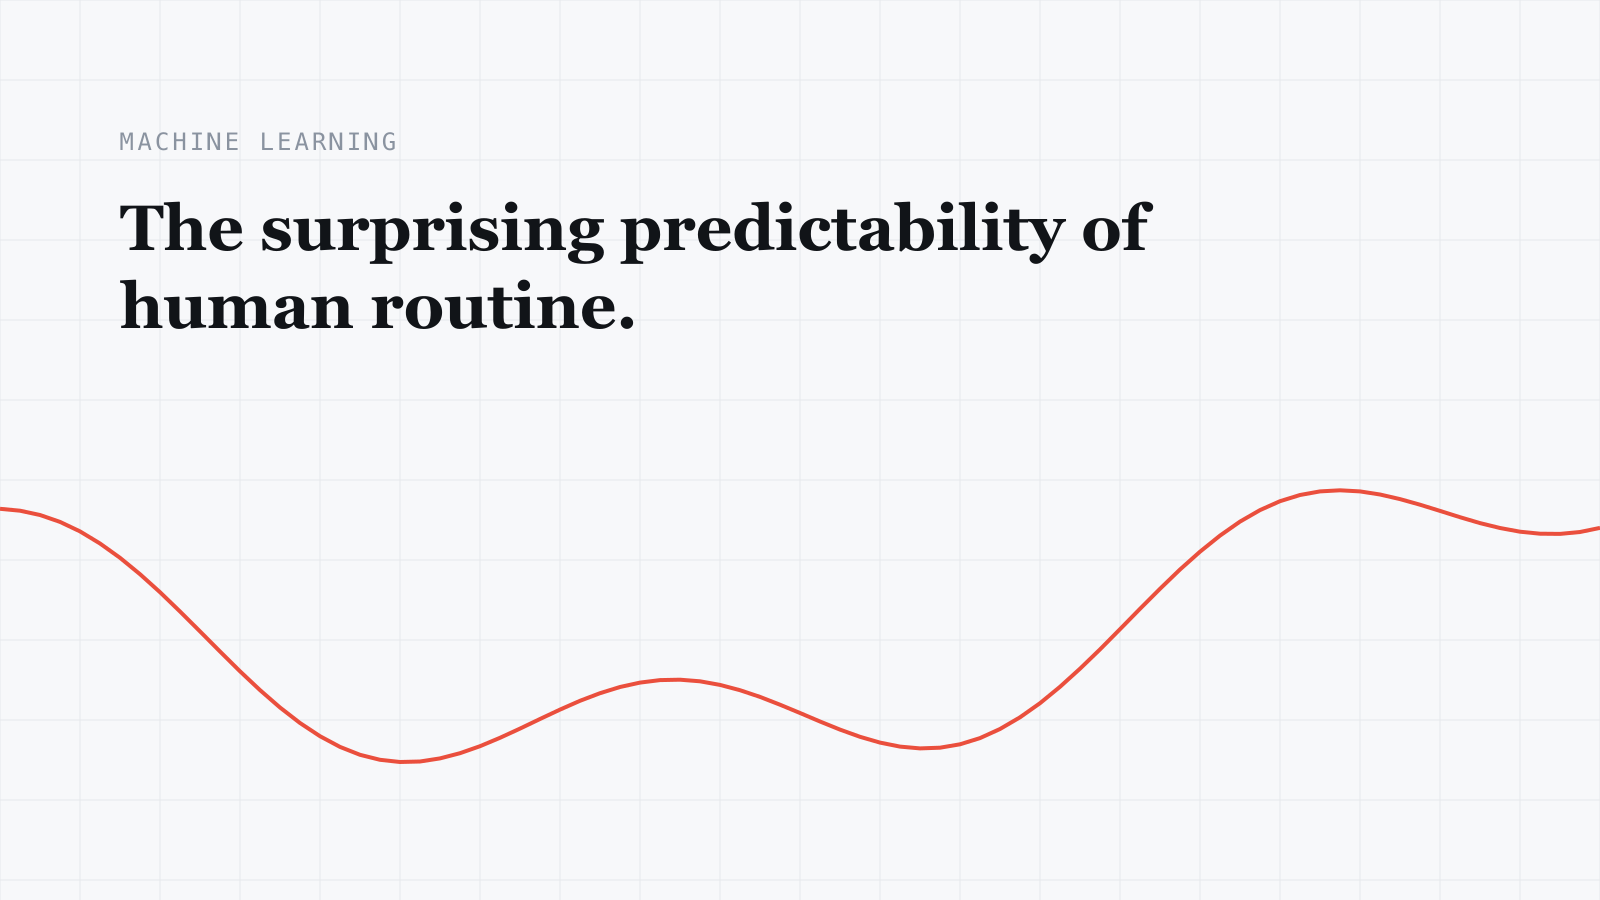
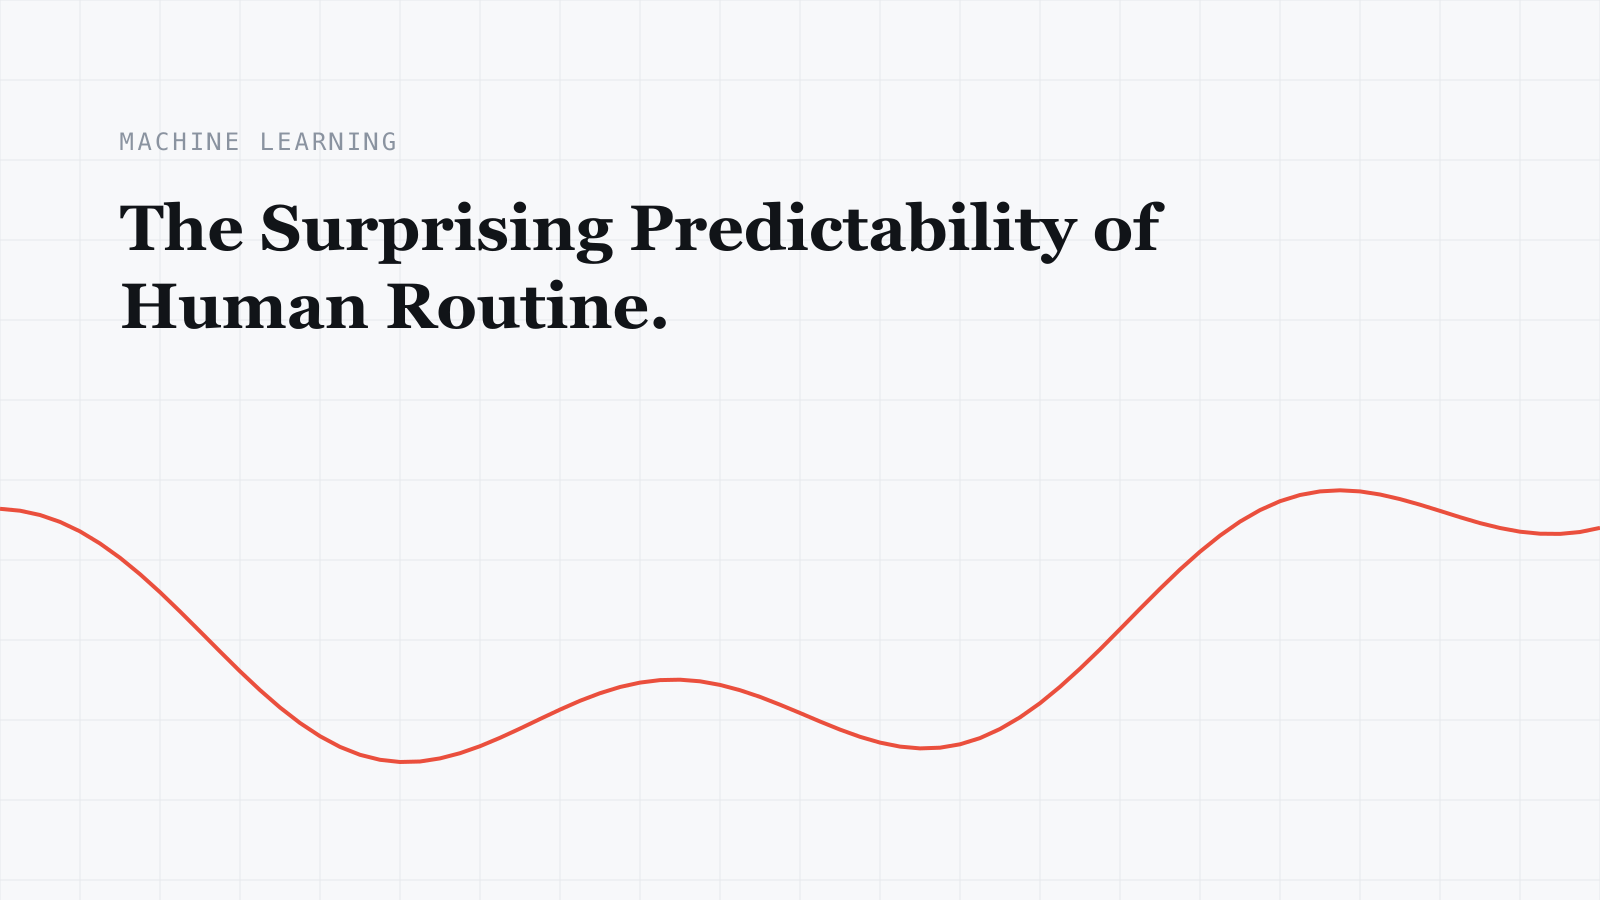
fix: fixes error in template file directing new output to overwrite existing files

Changed region(s): [[0.0625, 0.2178, 0.75, 0.3733]]

diff --git a/src/content/writing/your-phone-already-knows-where-youre-going.md b/src/content/writing/your-phone-already-knows-where-youre-going.md
@@ -1,10 +1,10 @@
 ---
 title: "Your Phone Already Knows Where You're Going"
 date: 2026-11-02
-summary: "The surprising predictability of human routine."
+summary: "We move through our weeks with far more regularity than we notice. The coffee shop, the commute, the Sunday call home. Each choice feels free in the moment, and each one is. Together, though, they draw a pattern so consistent that a simple algorithm can read it."
 tags: [Machine Learning, Statistics, On-Device Models]
 hero: ./images/your-phone-already-knows-where-youre-going/hero.png
-heroAlt: "Title: The surprising predictability of human routine."
+heroAlt: "Title: The Surprising Predictability of Human Routine."
 draft: false
 ---
 
@@ -43,7 +43,7 @@ The math behind this update dates to the 1760s and a rule named for the English 
 
 ## How predictable are we, really?
 
-Most of us like to think of ourselves as at least a little spontaneous, but the data tends to disagree.
+> Most of us like to think of ourselves as at least a little spontaneous, but the data tends to disagree.
 
 In 2010, a team of physicists led by Chaoming Song and Albert-László Barabási published a study in *Science* that asked a blunt question: how predictable is human movement? They analyzed anonymized mobile phone records from about 50,000 people over three months, tracking which cell towers each phone connected to over time.
 
@@ -51,7 +51,7 @@ They measured the randomness in each person's movement using a quantity borrowed
 
 The number came out at 93 percent.
 
-That figure means something specific—It doesn't claim that the model’s prediction is right 93 percent of the time. It says that a good enough model could, in principle, predict a typical person's location that often, because the pattern lives in the data. The remaining seven percent belongs to the unexpected: the road trip, the detour, the friend who calls with a last-minute invitation.
+That figure means something specific—it doesn't claim that the model’s prediction is right 93 percent of the time. It says that a good enough model could, in principle, predict a typical person's location that often, because the pattern lives in the data. The remaining seven percent belongs to the unexpected: the road trip, the detour, the friend who calls with a last-minute invitation.
 
 The part of the study that surprised me most came next. The researchers expected people who travel long distances, who cover more ground and visit more places, to resist prediction, but they didn't. Predictability held steady across people, whether they rarely left their neighborhood or regularly crossed a larger region. Covering more ground didn't make anyone more random, it just made their pattern bigger.
 
@@ -65,4 +65,4 @@ These errors reveal the system’s logic, it works on frequencies. It knows what
 
 This capability makes some people uneasy, and that unease deserves a straight answer. A record of where you go reveals a lot: where you sleep, where you work, who you visit, which doctor you see. Phone makers have largely moved this processing onto the device itself and given people controls to review and delete it. Use them if the trade doesn't sit right with you.
 
-The bigger lesson concerns us more than our phones. We move through our weeks with far more regularity than we notice. The coffee shop, the commute, the Sunday call home. Each choice feels free in the moment, and each one is. Together, though, they draw a pattern so consistent that a simple algorithm can read it. 
+The bigger lesson concerns us more than our phones. We move through our weeks with far more regularity than we notice. The coffee shop, the commute, the Sunday call home. Each choice feels free in the moment, and each one is. Together, though, they draw a pattern so consistent that a simple algorithm can read it.

diff --git a/src/content/writing/article-template.md b/src/content/writing/article-template.md
@@ -4,7 +4,7 @@ date: 2026-10-07
 summary: "A draft that shows how each Markdown element renders. It appears in dev and never in production."
 tags: ["template"]
 # Optional hero for the card and the top of the article. 16:9 reads best (1600 x 900).
-hero: ./images/averages-are-the-wrong-summary/hero.png
+hero: ./images/<slug>/hero.png
 heroAlt: "Describe the image for screen readers"
 draft: true
 ---
